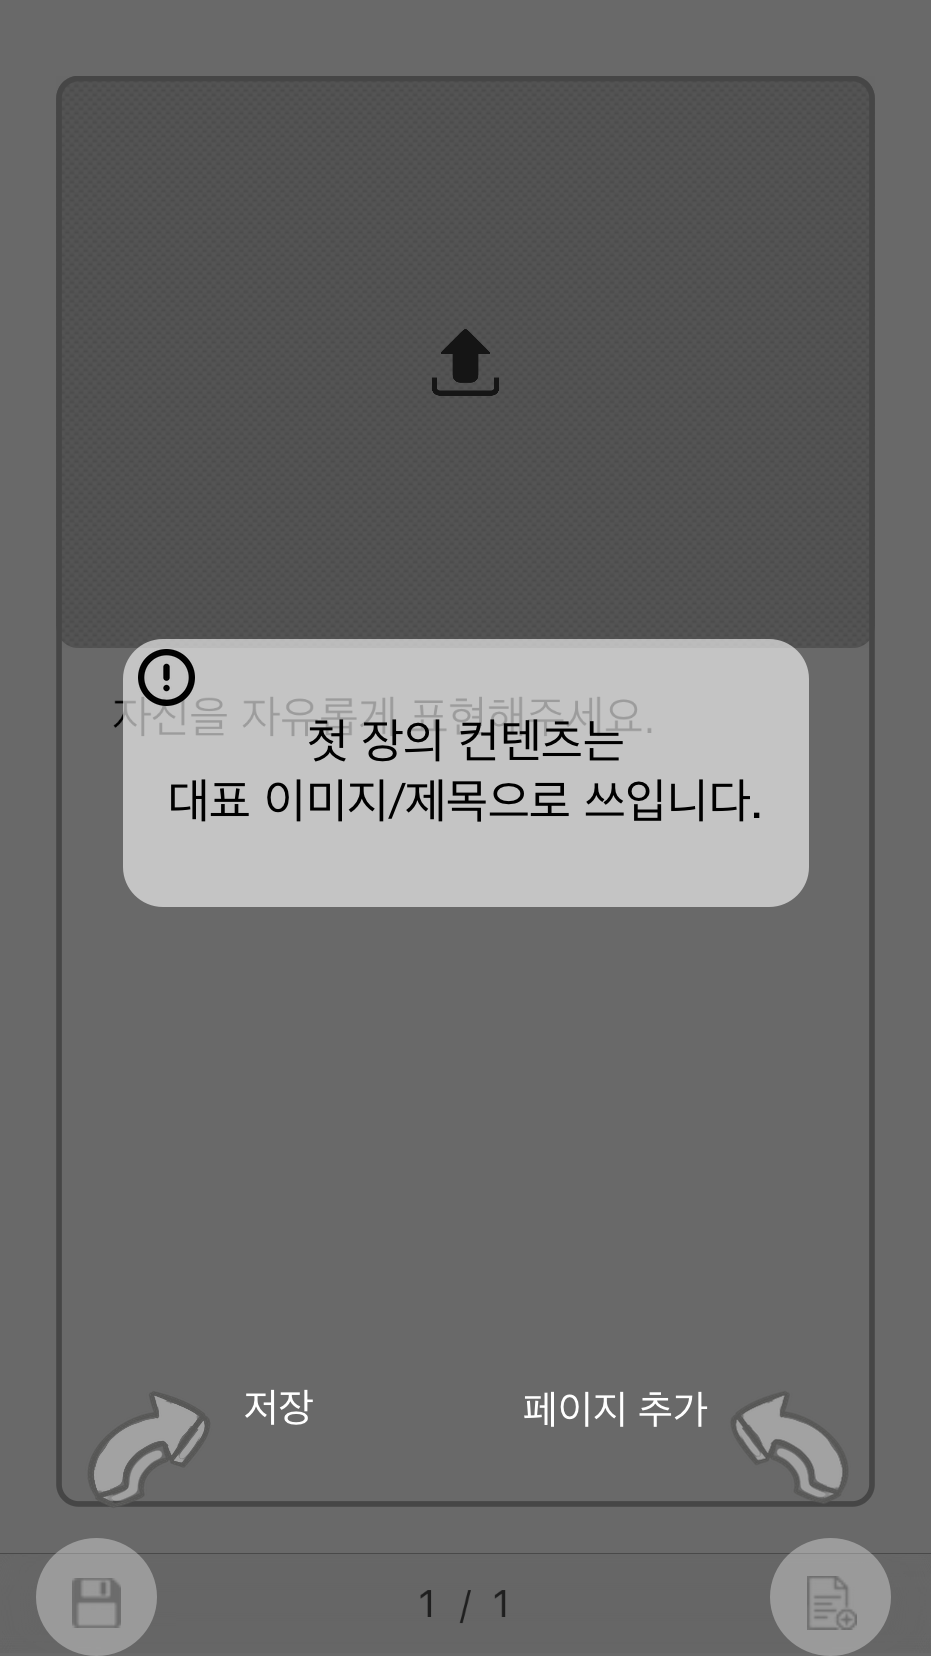
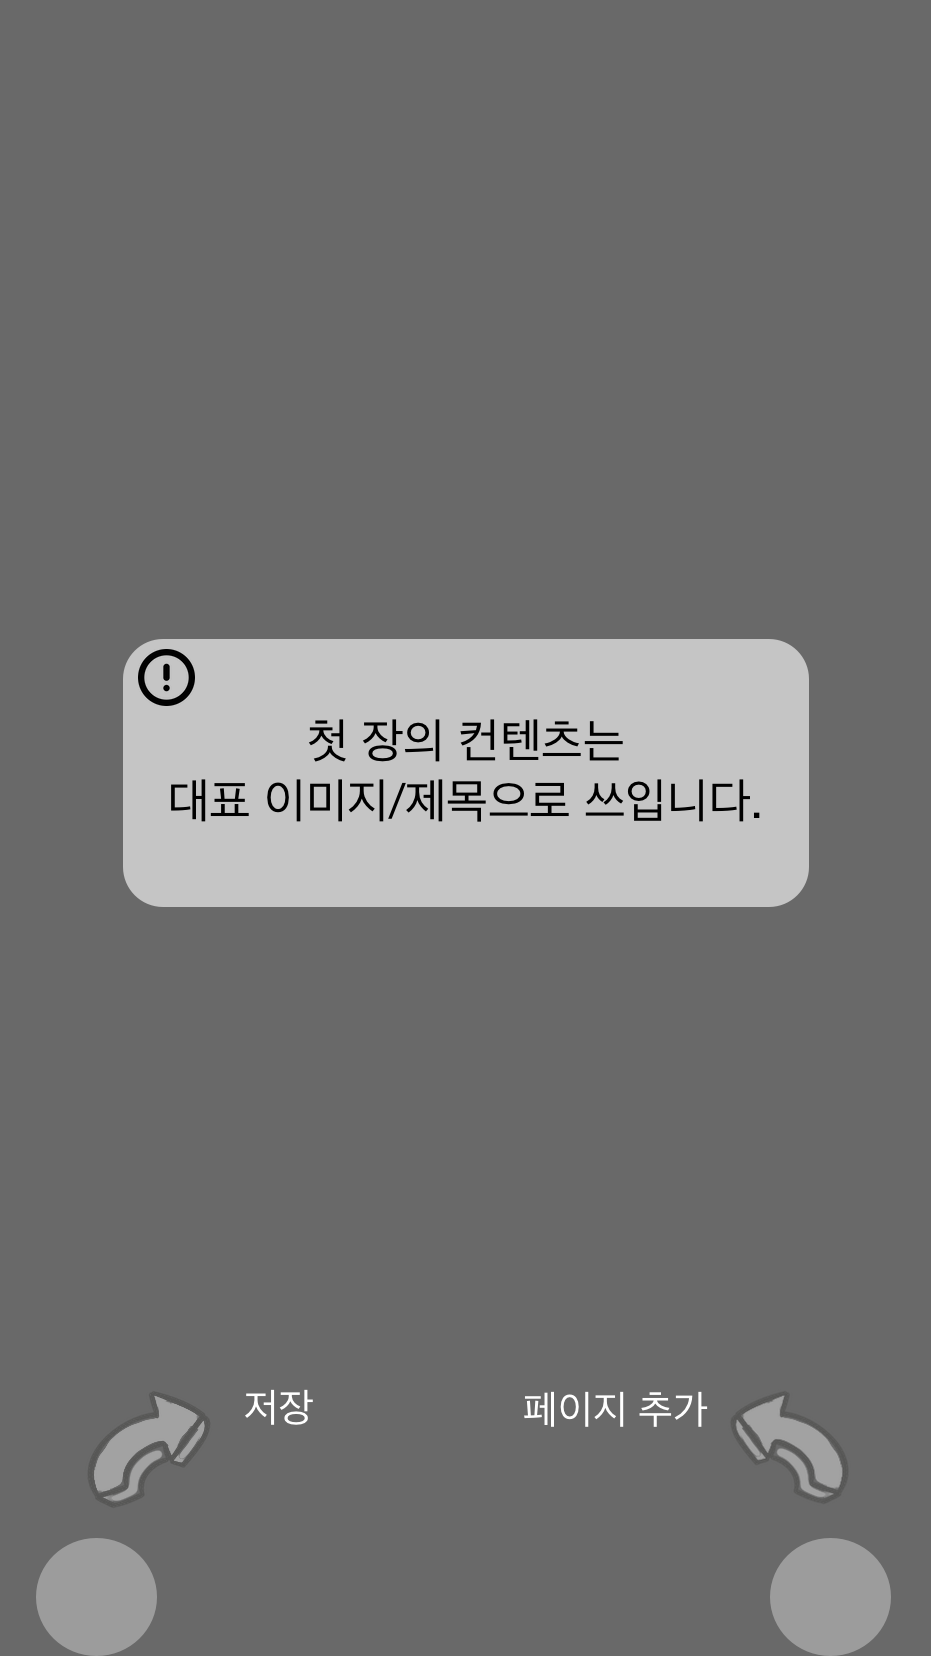
1. 쓰기 첫 화면 안내 애니메이션 2. cancel 버튼 (화면 dismiss)

diff --git a/Hoomi/WritePageViewController.m b/Hoomi/WritePageViewController.m
@@ -55,29 +55,23 @@
     
     
     /* 안내 애니메이션 */
-    [self animation];
+    [self startNoticeAnimation];
 }
 
--(void)animation {
+-(void)startNoticeAnimation {
     
     CGFloat rootViewWith = self.view.frame.size.width;
     CGFloat rootViewHeight = self.view.frame.size.height;
     
-    CGFloat labelWidth = rootViewWith - 40;
-    CGFloat labelHeghit = 40;
+    UIImageView *noticeImage = [[UIImageView alloc]initWithFrame:CGRectMake(0, 0, rootViewWith, rootViewHeight)];
+    [noticeImage setImage:[UIImage imageNamed:@"notice"]];
+    [noticeImage setContentMode:UIViewContentModeScaleAspectFill];
+    [self.scrollView addSubview:noticeImage];
     
-    CGFloat centerX = rootViewWith/2 - labelWidth/2;
-    CGFloat centerY = rootViewHeight/2 - labelHeghit/2;
-    
-    UIView *noticeLabel = [[UIView alloc]initWithFrame:CGRectMake(centerX, centerY, labelWidth, labelHeghit)];
-    noticeLabel.backgroundColor = [UIColor blueColor];
-    [self.scrollView addSubview:noticeLabel];
-    
-    [UIView animateWithDuration:3.0                 // 1.0초 동안
-                     animations:^{noticeLabel.alpha = 0.0;} // 애니메이션 투명도 0.0으로 만들기
+    [UIView animateWithDuration:5.0// 3.0초 동안
+                     animations:^{noticeImage.alpha = 0.0;} // 애니메이션 투명도 0.0으로 만들기
                      completion:^(BOOL finished){
-                         NSLog(@"test");
-                         [noticeLabel removeFromSuperview]; }];
+                         [noticeImage removeFromSuperview];}];
 }
 
    /**************************************/
@@ -168,30 +162,28 @@
 
 -(IBAction)onTouchUpInsideSave:(id)sender {
     NSLog(@"저장 버튼");
-    
-    // --- alert 창 띄우기 ---cheesing
-    
-    // --- 네트워크 토큰 테스트 (이후 네트워크 시 활용해야함) cheesing
-    NetworkObject *userToken = [[NetworkObject alloc]init];
-    NSString *userTokenString = userToken.loadSessionValue;
-    NSLog(@"--- 토큰 테스트 userTokenString %@", userTokenString);
-    
-    // 저장 데이터 확인 테스트
-    for (NSInteger i=0; i<=self.totalPage-1; i++) {
-        SheetOfThemeOne *content = [self.contentsArray objectAtIndex:i];
-        UIImage *image = content.imageView.image;
-        NSString *text = content.textView.text;
-        NSLog(@"%ld번째 페이지 < 이미지: [%@] / 글 : [%@] > ", i+1, image ,text);
+    if ([self isContentsNil] == YES) {
+        [self creatAlert:@"경고" message:@"컨텐츠를 빠짐없이 기입해주세요" haveCancelButton:NO defaultHandler:nil];
     }
-    
+    else {
+        [self creatAlert:@"확인" message:@"저장하시겠습니까?" haveCancelButton:YES defaultHandler:^ {
+            
+            // --- 네트워크 토큰 테스트 (이후 네트워크 시 활용해야함)
+            NetworkObject *userToken = [[NetworkObject alloc]init];
+            NSString *userTokenString = userToken.loadSessionValue;
+            NSLog(@"--- 토큰 테스트 userTokenString %@", userTokenString);
+            NSLog(@"네트워킹 코드 짜야함");
+            
+            //close 기능
+            [self dismissViewControllerAnimated:YES completion:nil];
+        }];
+    }
 }
 
 -(IBAction)onTouchUpInsidePageAddButton:(id)sender {
     NSLog(@"page 추가 버튼");
     
     // 삭제 기능 추가 (추후)
-    
-    //alert창 추가 --  cheesing
     
     // -------- 테마 임시데이터 cheesing
     [self creatWriteSheetByTheme:1];
@@ -215,6 +207,12 @@
     NSLog(@"업로드 버튼");
     [self showActionSheet];
 }
+
+/* close 기능 */
+- (IBAction)onTouchUpInsideCancelButton:(id)sender {
+    [self dismissViewControllerAnimated:YES completion:nil];
+}
+
 
 
     /************************/
@@ -254,8 +252,7 @@
 -(void)showImagePickerWithSourceType:(UIImagePickerControllerSourceType)sourceType {
     /* 소스타입 사용 가능한 상황인지 ex 시뮬레이터는 카메라 안됨 */
     if ([UIImagePickerController isSourceTypeAvailable:sourceType] == NO) {
-        // 사용자에겐 allert 띄워주기
-        // 난 로그를 볼 거다
+        [self creatAlert:@"알림" message:@"이용할 수 없는 파일 형식입니다." haveCancelButton:NO defaultHandler:nil];
         NSLog(@"이 소스는 못쓰낟");
     }
     else {
@@ -334,6 +331,49 @@
 -(void)selectCurrentContents {
     self.currentSheet = [self.contentsArray objectAtIndex:self.currentPage];
 }
+
+/* 저장 컨텐츠 nil 확인 */
+-(BOOL)isContentsNil{
+    // 저장 데이터 확인
+    for (NSInteger i=0; i<=self.totalPage-1; i++) {
+        
+        SheetOfThemeOne *content = [self.contentsArray objectAtIndex:i];
+        UIImage *image = content.imageView.image;
+        NSString *text = content.textView.text;
+        NSLog(@"%ld번째 페이지 < 이미지: [%@] / 글 : [%@] > ", i+1, image ,text);
+        
+        if ((nil == image) || (0 == text.length)) {
+            return YES;
+        }
+    }
+    NSLog(@"컨텐츠가 빠짐없이 기입되어있습니다. 저장해도 좋습니다.");
+    return NO;
+}
+
+
+  /***************************/
+ /*         alert           */
+/***************************/
+
+-(void)creatAlert:(NSString *)title message:(NSString *) message haveCancelButton:(BOOL)haveCancelButton defaultHandler:(void (^)(void))handler {
+    
+    UIAlertController *alert = [UIAlertController alertControllerWithTitle:title message:message preferredStyle:UIAlertControllerStyleAlert];
+    UIAlertAction *okButton = [UIAlertAction actionWithTitle:@"확인" style:UIAlertActionStyleDefault handler:^(UIAlertAction * _Nonnull action) {
+        
+        //블럭함수
+        handler();
+        
+    }];
+    [alert addAction:okButton];
+    
+    if (haveCancelButton == YES) {
+        UIAlertAction *cancelButton = [UIAlertAction actionWithTitle:@"취소" style:UIAlertActionStyleDefault handler:nil];
+        [alert addAction:cancelButton];
+    }
+    
+    [self presentViewController:alert animated:YES completion:nil];
+}
+
 
 
 

diff --git a/Hoomi/DetailResumeViewController.m b/Hoomi/DetailResumeViewController.m
@@ -13,7 +13,6 @@
 
 @property (strong, nonatomic) IBOutlet UIScrollView *scrollView;
 @property (strong, nonatomic) UIActivityIndicatorView *activityView;
-@property (weak, nonatomic) IBOutlet UINavigationItem *navigationItem;
 
 @property (nonatomic) CGFloat offsetX;
 
@@ -152,6 +151,9 @@
    /*    Button Action     */
   /************************/
 
+- (IBAction)onTouchUpInsideCancelButton:(id)sender {
+    [self dismissViewControllerAnimated:YES completion:nil];
+}
 
     /******************************/
    /*        컨텐츠 로드 관련        */
